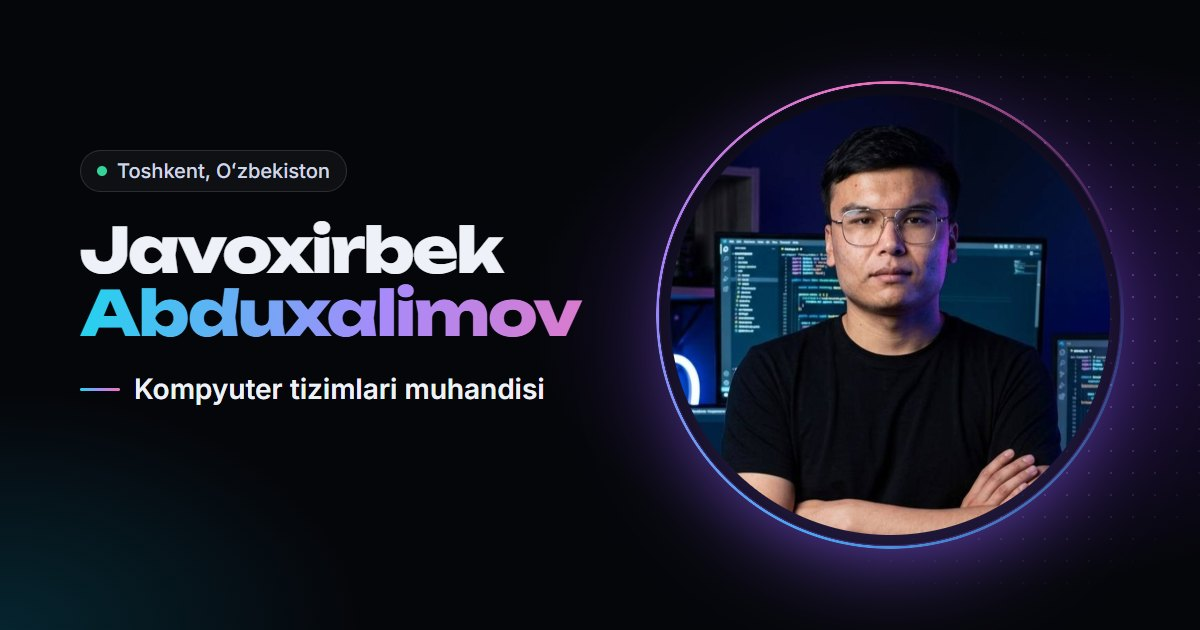
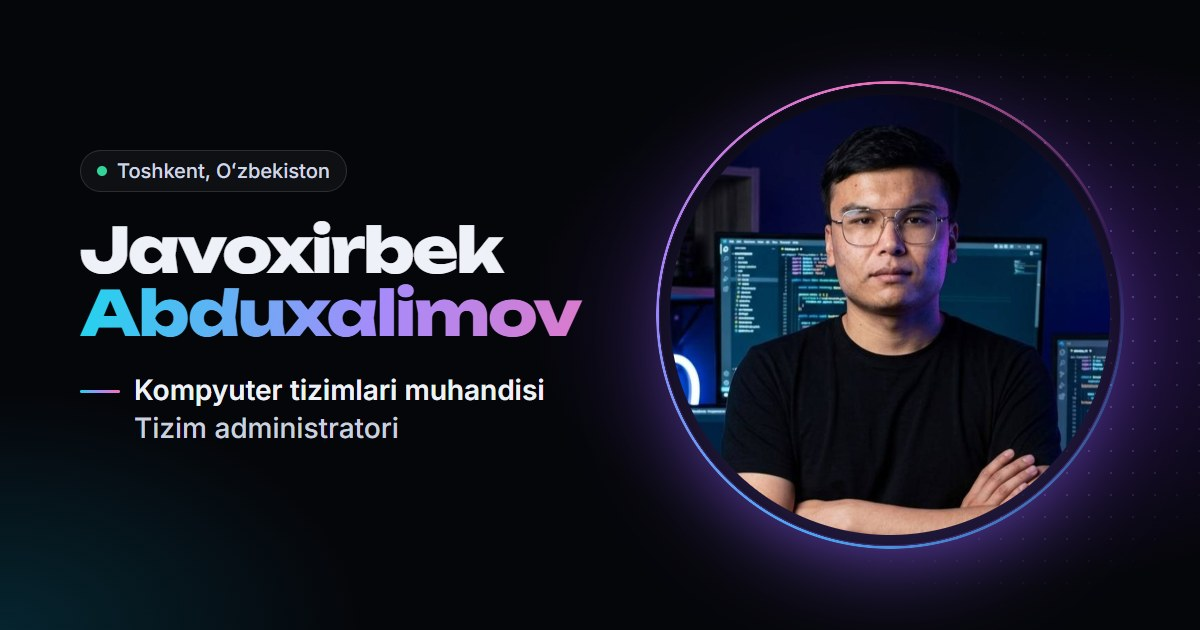
feat: LinkedIn bilan bir xil sarlavha — "Kompyuter tizimlari muhandisi | Tizim administratori"
- hero: asosiy lavozim doimiy, ikkinchi qism almashadi (Tizim administratori → bot → veb);
  joy yetmasa ikkinchi qism keyingi qatorga tushadi (fitRole)
- sahifa sarlavhasi, vCard TITLE, QR vizitkalar va ulashish rasmi yangilandi, 3 tilda

Changed region(s): [[0.0617, 0.6032, 0.4625, 0.6333], [0.0925, 0.6635, 0.3392, 0.6937]]

diff --git a/js/i18n.js b/js/i18n.js
@@ -24,14 +24,15 @@ window.STACK = [
 
 window.I18N = {
   uz: {
-    meta_title: 'Javoxirbek Abduxalimov — Kompyuter tizimlari muhandisi',
+    meta_title: 'Javoxirbek Abduxalimov — Kompyuter tizimlari muhandisi | Tizim administratori',
     meta_desc: 'Javoxirbek Abduxalimov — Toshkentlik kompyuter tizimlari muhandisi va dasturchi. Telegram botlar, veb-saytlar, IT infratuzilma.',
     nav_about: 'Men haqimda',
     nav_contact: 'Aloqa',
     eyebrow: 'Toshkent, Oʻzbekiston',
     first: 'Javoxirbek',
     last: 'Abduxalimov',
-    roles: ['Kompyuter tizimlari muhandisi', 'Telegram bot dasturchisi', 'Veb-dasturchi', 'Tizim administratori'],
+    role_main: 'Kompyuter tizimlari muhandisi',
+    roles: ['Tizim administratori', 'Telegram bot dasturchisi', 'Veb-dasturchi'],
     lead: 'Murakkab texnik vazifalarni oddiy, ishonchli va oʻzi ishlaydigan tizimlarga aylantiraman.',
     cta_contact: 'Bogʻlanish',
     cta_save: 'Kontaktni saqlash',
@@ -81,18 +82,19 @@ window.I18N = {
     toast_saved: 'Kontakt yuklab olindi',
     footer_name: 'Javoxirbek Abduxalimov',
     footer: 'Barcha huquqlar himoyalangan.',
-    vcard_title: 'Kompyuter tizimlari muhandisi'
+    vcard_title: 'Kompyuter tizimlari muhandisi | Tizim administratori'
   },
 
   ru: {
-    meta_title: 'Джавохирбек Абдухалимов — инженер компьютерных систем',
+    meta_title: 'Джавохирбек Абдухалимов — Инженер компьютерных систем | Системный администратор',
     meta_desc: 'Джавохирбек Абдухалимов — инженер компьютерных систем и разработчик из Ташкента. Telegram-боты, сайты, IT-инфраструктура.',
     nav_about: 'Обо мне',
     nav_contact: 'Контакты',
     eyebrow: 'Ташкент, Узбекистан',
     first: 'Джавохирбек',
     last: 'Абдухалимов',
-    roles: ['Инженер компьютерных систем', 'Разработчик Telegram-ботов', 'Веб-разработчик', 'Системный администратор'],
+    role_main: 'Инженер компьютерных систем',
+    roles: ['Системный администратор', 'Разработчик Telegram-ботов', 'Веб-разработчик'],
     lead: 'Превращаю сложные технические задачи в простые, надёжные и автономные системы.',
     cta_contact: 'Связаться',
     cta_save: 'Сохранить контакт',
@@ -142,18 +144,19 @@ window.I18N = {
     toast_saved: 'Контакт сохранён',
     footer_name: 'Джавохирбек Абдухалимов',
     footer: 'Все права защищены.',
-    vcard_title: 'Инженер компьютерных систем'
+    vcard_title: 'Инженер компьютерных систем | Системный администратор'
   },
 
   en: {
-    meta_title: 'Javokhirbek Abdukhalimov — Computer Systems Engineer',
+    meta_title: 'Javokhirbek Abdukhalimov — Computer Systems Engineer | System Administrator',
     meta_desc: 'Javokhirbek Abdukhalimov — computer systems engineer and developer based in Tashkent. Telegram bots, websites, IT infrastructure.',
     nav_about: 'About',
     nav_contact: 'Contact',
     eyebrow: 'Tashkent, Uzbekistan',
     first: 'Javokhirbek',
     last: 'Abdukhalimov',
-    roles: ['Computer Systems Engineer', 'Telegram Bot Developer', 'Web Developer', 'System Administrator'],
+    role_main: 'Computer Systems Engineer',
+    roles: ['System Administrator', 'Telegram Bot Developer', 'Web Developer'],
     lead: 'I turn complex technical problems into simple, reliable, self-running systems.',
     cta_contact: 'Get in touch',
     cta_save: 'Save contact',
@@ -203,6 +206,6 @@ window.I18N = {
     toast_saved: 'Contact saved',
     footer_name: 'Javokhirbek Abdukhalimov',
     footer: 'All rights reserved.',
-    vcard_title: 'Computer Systems Engineer'
+    vcard_title: 'Computer Systems Engineer | System Administrator'
   }
 };

diff --git a/index.html b/index.html
@@ -3,11 +3,11 @@
 <head>
   <meta charset="utf-8">
   <meta name="viewport" content="width=device-width, initial-scale=1">
-  <title>Javoxirbek Abduxalimov — Kompyuter tizimlari muhandisi</title>
+  <title>Javoxirbek Abduxalimov — Kompyuter tizimlari muhandisi | Tizim administratori</title>
   <meta name="description" content="Javoxirbek Abduxalimov — Toshkentlik kompyuter tizimlari muhandisi va dasturchi. Telegram botlar, veb-saytlar, IT infratuzilma.">
   <meta name="theme-color" content="#05060a">
   <meta property="og:type" content="profile">
-  <meta property="og:title" content="Javoxirbek Abduxalimov — Kompyuter tizimlari muhandisi">
+  <meta property="og:title" content="Javoxirbek Abduxalimov — Kompyuter tizimlari muhandisi | Tizim administratori">
   <meta property="og:description" content="Telegram botlar, veb-saytlar va IT infratuzilma. Toshkent.">
   <meta property="og:url" content="https://javokhir-an.github.io/">
   <meta property="og:image" content="https://javokhir-an.github.io/img/og-image.jpg">
@@ -20,7 +20,7 @@
   <link rel="preconnect" href="https://fonts.googleapis.com">
   <link rel="preconnect" href="https://fonts.gstatic.com" crossorigin>
   <link rel="stylesheet" href="https://fonts.googleapis.com/css2?family=Inter:wght@400;500;600;700&family=Unbounded:wght@500;700;800&display=swap">
-  <link rel="stylesheet" href="css/style.css?v=8b29a9b1">
+  <link rel="stylesheet" href="css/style.css?v=68f52154">
   <script>
     (function (d) {
       d.classList.add('js');
@@ -92,7 +92,7 @@
           <span class="name__line"><span class="name__first" data-i18n="first" data-split>Javoxirbek</span></span>
           <span class="name__line"><span class="name__last" data-i18n="last">Abduxalimov</span></span>
         </h1>
-        <p class="role reveal"><span class="role__line" aria-hidden="true"></span><span class="role__words" id="typed" aria-hidden="true"></span><span class="sr-only" id="roles-sr"></span></p>
+        <p class="role reveal"><span class="role__line" aria-hidden="true"></span><span class="role__main" data-i18n="role_main">Kompyuter tizimlari muhandisi</span><span class="role__sep" aria-hidden="true"></span><span class="role__words" id="typed" aria-hidden="true"></span><span class="sr-only" id="roles-sr"></span></p>
         <p class="lead reveal" data-i18n="lead">Murakkab texnik vazifalarni oddiy, ishonchli va oʻzi ishlaydigan tizimlarga aylantiraman.</p>
         <div class="cta reveal">
           <a class="btn btn--primary magnetic" href="#contact"><span data-i18n="cta_contact">Bogʻlanish</span>
@@ -239,7 +239,7 @@
     <div class="qrzoom__card">
       <img data-qr src="img/qr-uz.svg" width="420" height="420" alt="Kontakt QR kodi" data-i18n-alt="qr_alt">
       <p class="qrzoom__name" id="qrzoom-name" data-i18n="footer_name">Javoxirbek Abduxalimov</p>
-      <p class="qrzoom__role" data-i18n="vcard_title">Kompyuter tizimlari muhandisi</p>
+      <p class="qrzoom__role" data-i18n="vcard_title">Kompyuter tizimlari muhandisi | Tizim administratori</p>
     </div>
     <p class="qrzoom__hint" data-i18n="qr_close">Yopish uchun istalgan joyga bosing</p>
   </div>
@@ -247,8 +247,8 @@
   <div class="toast" id="toast" role="status" aria-live="polite"></div>
   <span class="font-warmup" aria-hidden="true">Джавохирбек Абдухалимов Oʻzbekiston</span>
 
-  <script src="js/i18n.js?v=648d05f6"></script>
+  <script src="js/i18n.js?v=2ad9762b"></script>
   <script src="js/globe.js?v=7d0dda8c"></script>
-  <script src="js/main.js?v=ea17ca1f"></script>
+  <script src="js/main.js?v=031e7d16"></script>
 </body>
 </html>

diff --git a/js/main.js b/js/main.js
@@ -56,6 +56,26 @@
     if (widest > avail && avail > 0) {
       nameEl.style.fontSize = (parseFloat(getComputedStyle(nameEl).fontSize) * avail / widest).toFixed(1) + 'px';
     }
+    fitRole();
+  }
+  var roleBox = document.querySelector('.role'), roleMain = document.querySelector('.role__main');
+  function fitRole() {
+    if (!roleBox || !roleMain) return;
+    roleBox.classList.remove('role--stack');
+    var probe = document.createElement('span');
+    probe.className = 'role__word';
+    probe.style.cssText = 'position:absolute;left:-9999px;top:0;visibility:hidden';
+    roleBox.appendChild(probe);
+    var longest = 0;
+    (t('roles') || []).forEach(function (r) { probe.textContent = r; longest = Math.max(longest, probe.offsetWidth); });
+    roleBox.removeChild(probe);
+    var avail = roleBox.clientWidth;
+    if (window.innerWidth >= 860 && portraitEl && portraitEl.offsetWidth) {
+      avail = Math.min(avail, portraitEl.offsetLeft - portraitEl.offsetWidth * 0.2 - roleBox.getBoundingClientRect().left - 20);
+    }
+    var gap = parseFloat(getComputedStyle(roleBox).columnGap) || 12;
+    var need = 34 + gap + roleMain.offsetWidth + gap + 1 + gap + longest;
+    roleBox.classList.toggle('role--stack', reduceMotion || need > avail);
   }
   window.addEventListener('resize', fitName);
   if (document.fonts) {
@@ -118,10 +138,11 @@
     if (reduceMotion) {
       roleEl.style.height = 'auto';
       roleEl.style.clipPath = 'none';
+      roleEl.style.whiteSpace = 'normal';
       roleEl.textContent = roles.join(' · ');
       return;
     }
-    // Birinchi boʻlib rasmiy lavozim koʻrinadi; almashish faqat birinchi ekran ochilgach boshlanadi
+    // Avval LinkedIn sarlavhasi bilan bir xil: «muhandis | tizim administratori»; almashish birinchi ekran ochilgach boshlanadi
     showRole(roles[0]);
     roleIdx = 1;
     if (heroStarted) scheduleRoles(3200);

diff --git a/css/style.css b/css/style.css
@@ -244,6 +244,11 @@ html.has-cursor, html.has-cursor * { cursor: none !important; }
   min-height: 1.6em; font-size: clamp(17px, 2.2vw, 24px); font-weight: 500; color: #dfe4f0;
 }
 .role__line { width: 34px; height: 2px; background: var(--grad); border-radius: 2px; flex-shrink: 0; }
+.role { flex-wrap: wrap; row-gap: 4px; }
+.role__main { font-weight: 600; color: #fff; white-space: nowrap; }
+.role__sep { flex-shrink: 0; width: 1.5px; height: 1.05em; border-radius: 1px; background: linear-gradient(180deg, var(--c1), var(--c2)); }
+.role--stack .role__sep { display: none; }
+.role--stack .role__words { flex-basis: calc(100% - 46px); margin-left: 46px; height: auto; min-height: 1.45em; }
 .role__words {
   position: relative; display: inline-block; height: 1.45em; white-space: nowrap;
   clip-path: inset(0 -200vw 0 -24px);   /* faqat tepa-pastdan qirqadi, eniga erkin */
